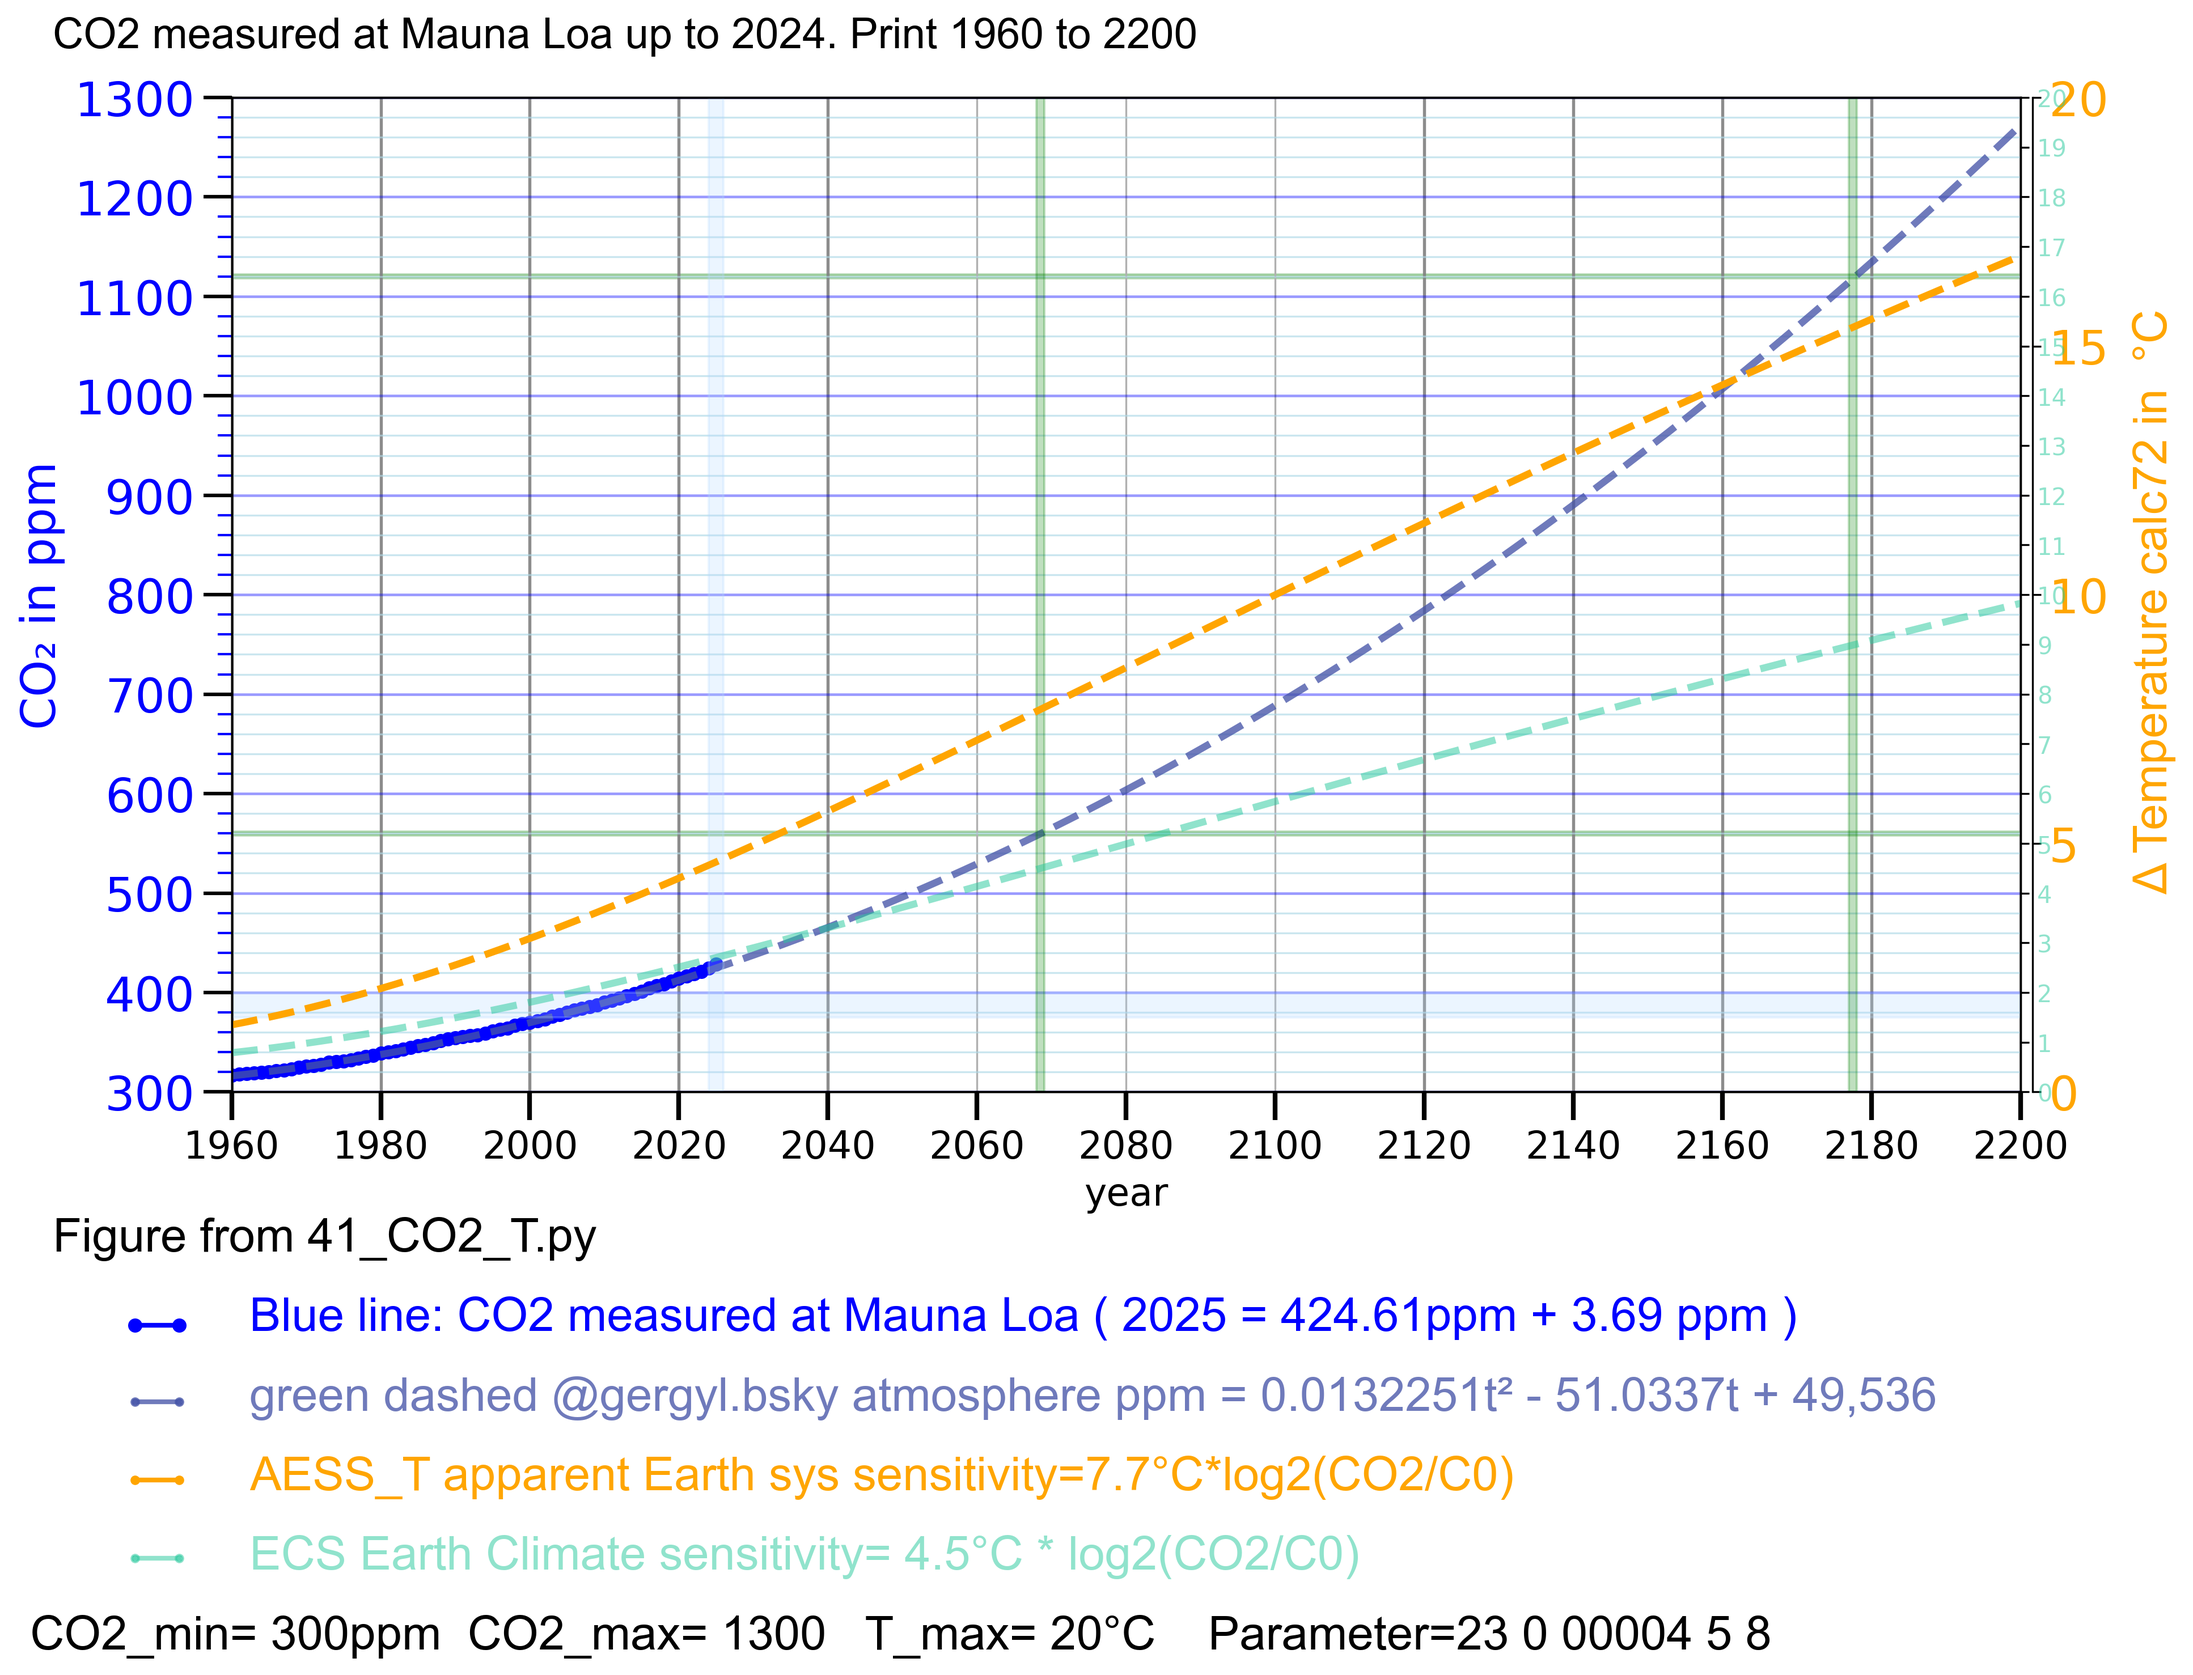
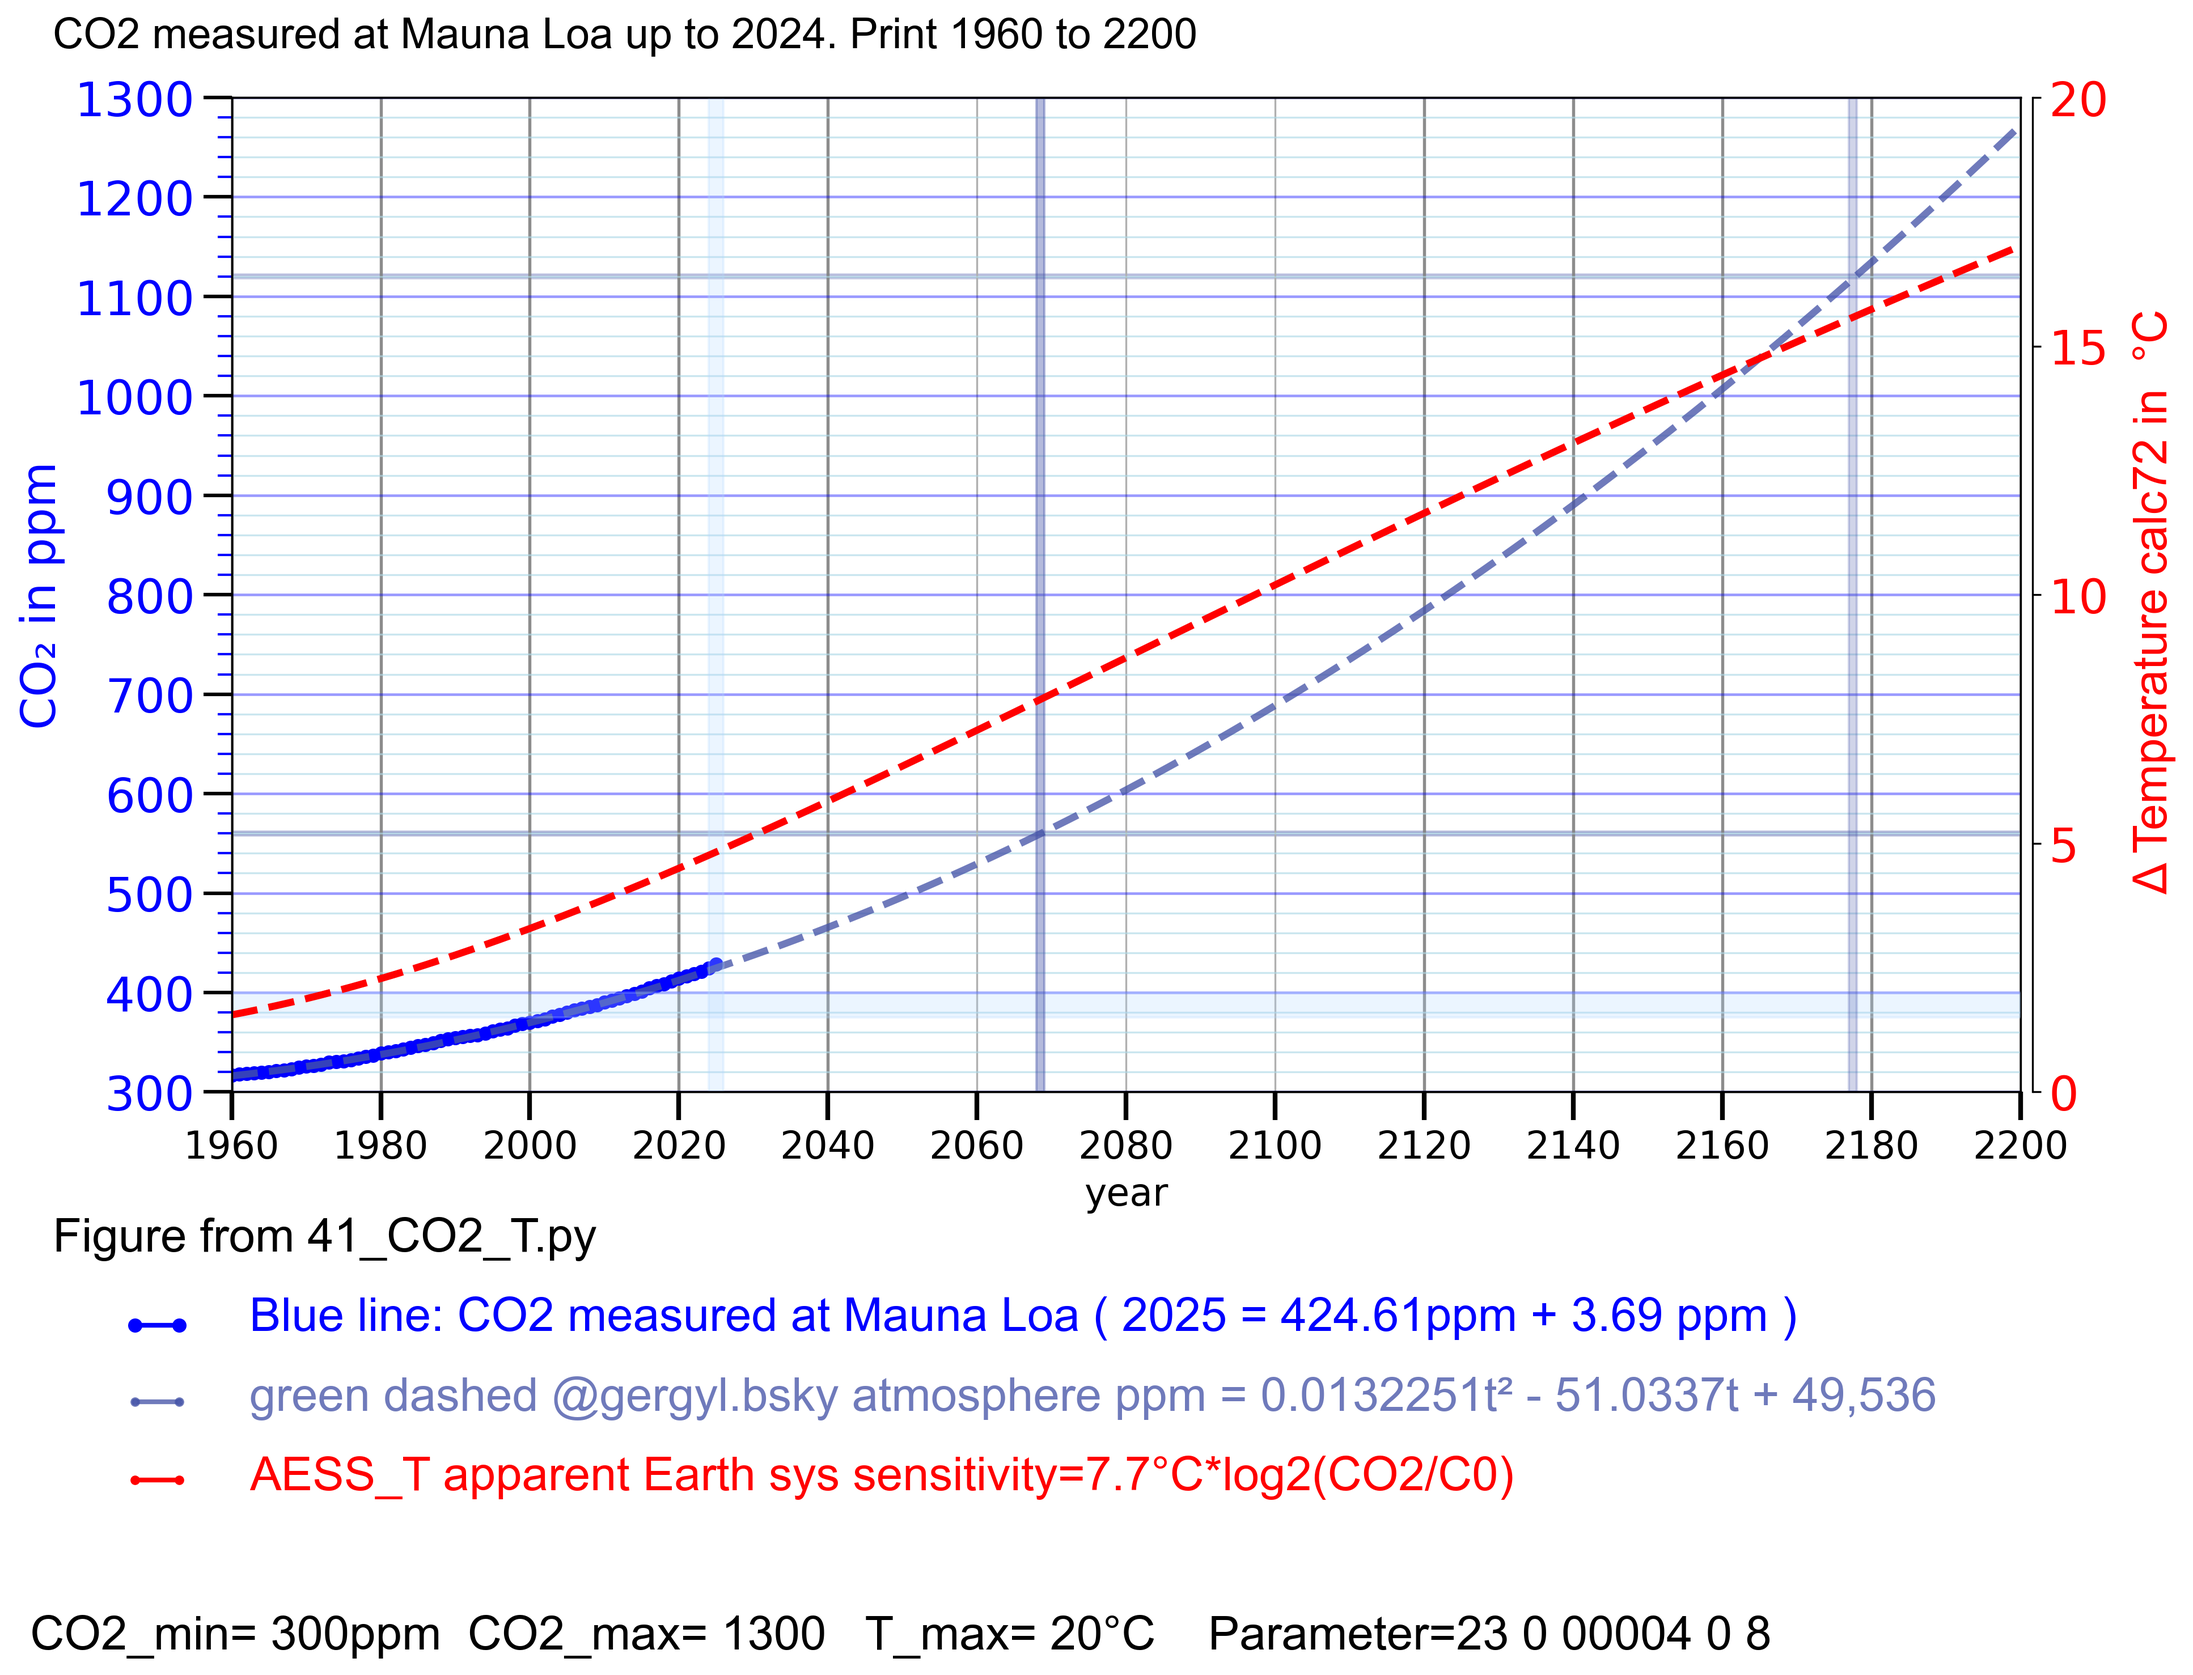
41n2_CO2_T.py 275ppm basis

diff --git a/41_CO2_T.py b/41_CO2_T.py
@@ -1,4 +1,4 @@
-# 41n1_CO2_T.py 275ppm basis
+# 41n2_CO2_T.py 275ppm basis
 # Thomas Boettcher
 # part 1 configure 
 # part 2 plot CO2 Mauna Loa
@@ -42,11 +42,17 @@ plot54_Glen_delta_on = 0 #  4, 0 print row 4 # green Glen diff print in line 4
 plot55_population_on = 0 # 5 row 5 # 0=no print , 1 = population in green
 # no part 6
 plot71_temperature = 0 # 5,4, 0
-c71 = "red" # plot7 color
+c71 = "red" # plot71 color
 plot72_AESS_T= 4 # 5,0 apparent Earth system sensitivity (AESS=7.7°C)
-c72 = "#DD3646A3" # plot72 color
-plot73_ECS_T= 5 # 4.5 #  Earth Climate sensitivity (ECS=4.5°C)
-c73 = "#B9184E84" # plot73 color
+if plot71_temperature < 1:
+   c72 = "red" # plot72 color
+else:   
+   c72 = "#DD3646A3" # plot72 color
+plot73_ECS_T= 0 # 4.5 #  Earth Climate sensitivity (ECS=4.5°C)
+if plot71_temperature < 1 and plot72_AESS_T < 1:
+   c73 = "red" # plot73 color
+else:   
+   c73 = "#B9184E84" # plot73 color
 parameter84_save_png = 8 # save png
 
 # 1.3.1 scale the left Y axis
